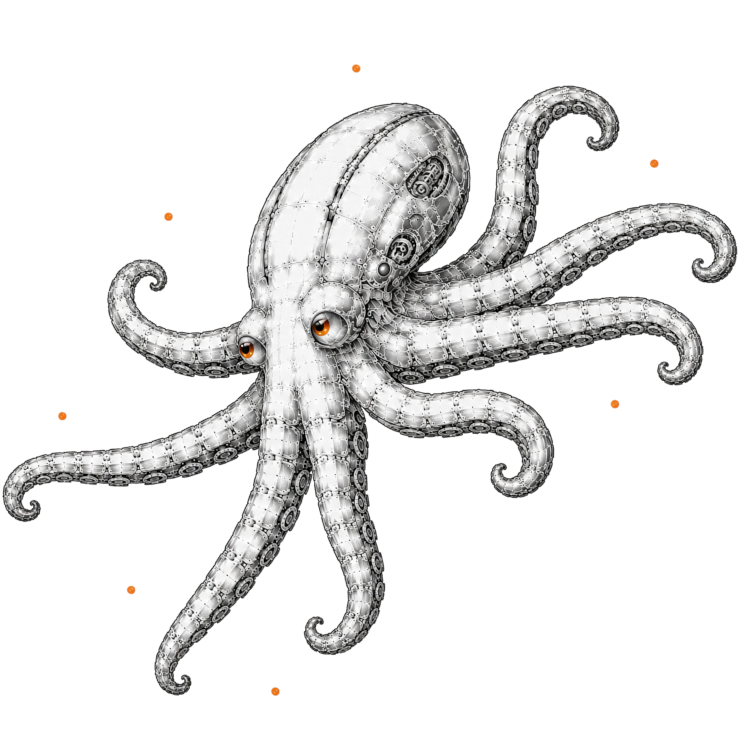
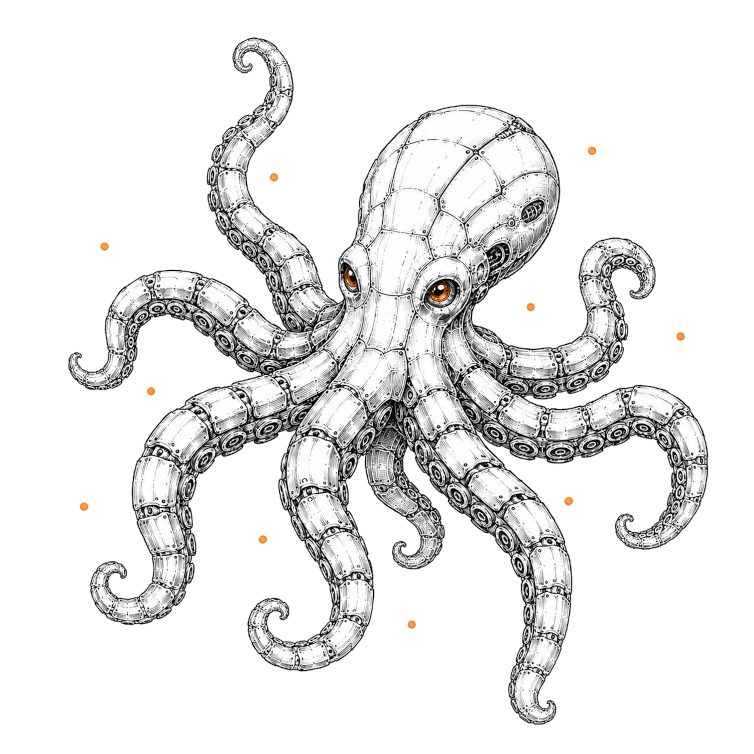
Отдельный файл осьминога для новостей, главная не затронута
hero-octopus.png использовался в двух местах — случайно перезаписал
его файлом для новостей, из-за чего поменялась и главная. Возвращен
исходный файл на главной, для новостей заведен свой news-octopus.png.

Changed region(s): [[0.0, 0.0305, 0.9761, 0.9761], [0.2135, 0.2745, 0.244, 0.305], [0.122, 0.305, 0.1525, 0.3355]]

diff --git a/news/index.html b/news/index.html
@@ -56,7 +56,7 @@
 </a>
 </div>
 </div>
-<img class="news-mascot" src="../assets/brand/hero-octopus.png" alt="">
+<img class="news-mascot" src="../assets/brand/news-octopus.png" alt="">
 </div>
 <footer class="colophon">
 <nav>

diff --git a/news/build_feed.py b/news/build_feed.py
@@ -103,7 +103,7 @@ def build():
         add("</div>")
 
     add("</div>")
-    add('<img class="news-mascot" src="../assets/brand/hero-octopus.png" alt="">')
+    add('<img class="news-mascot" src="../assets/brand/news-octopus.png" alt="">')
     add("</div>")
 
     add('<footer class="colophon">')
